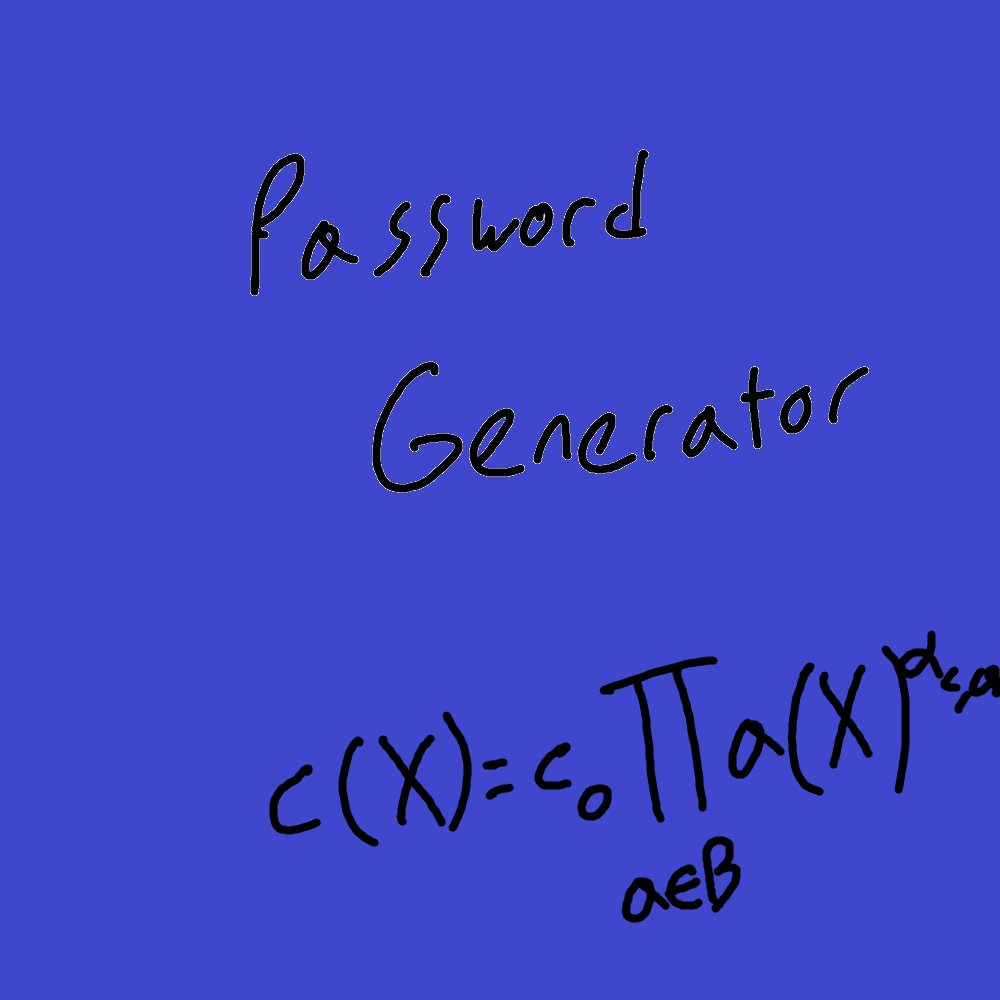
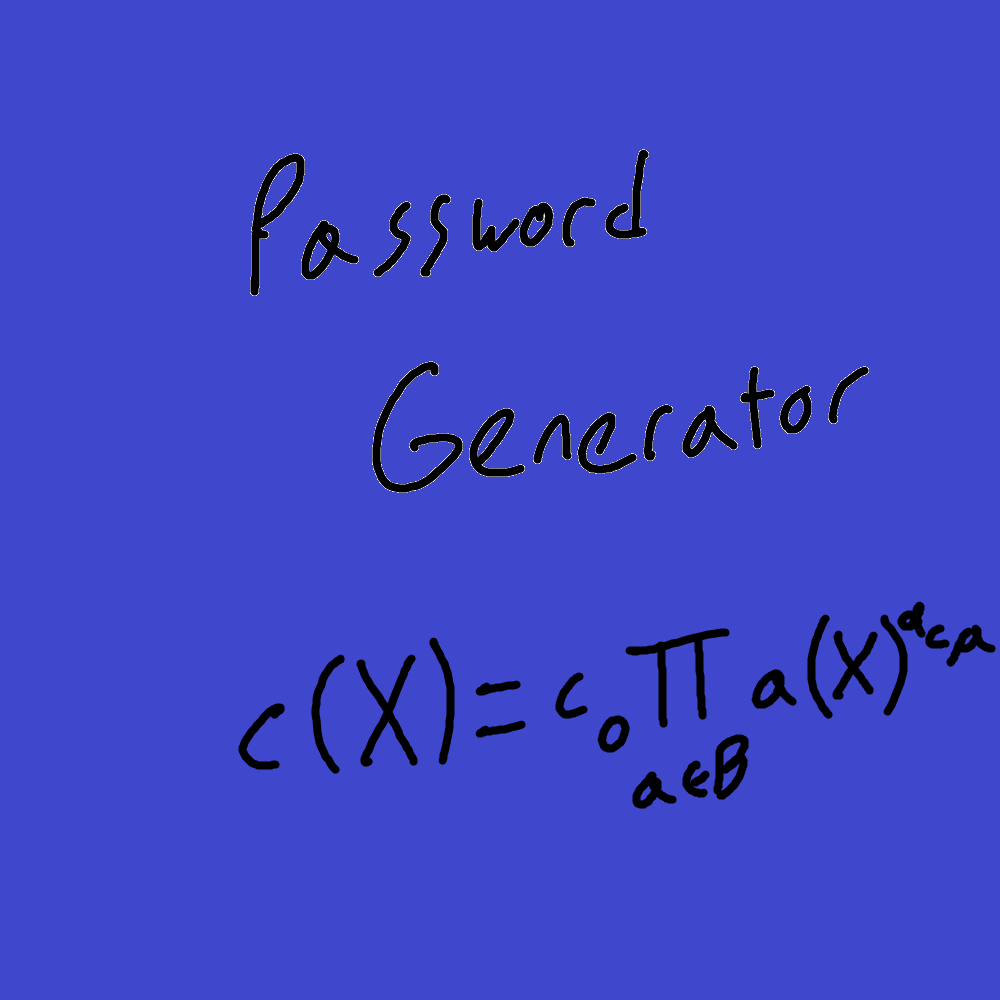
Added the coding-quiz picture and the link to the coding quiz deployment. Changed the password-gen-pic by moving the equation more towards the center using paint. Updated the webpage-screenshot pic to be current and display the new coding-quiz card.

Changed region(s): [[0.217, 0.589, 1.0, 0.837], [0.62, 0.837, 0.744, 0.93]]

diff --git a/index.html b/index.html
@@ -54,14 +54,20 @@
             <div class="subsection">
                 
                 <div class="project-2-img">
-                    <a href="https://google.com">
-                        <img src="./assets/images/calculator-pic.png" alt="calculator image"/>
-                    </a>
-                </div>
-                
-                <div class="project-2-img">
                     <a href="https://eigenvalue000.github.io/homework-03-password-generator/">
                         <img src="./assets/images/password-gen-pic.png" alt="password generator image"/>
+                    </a>
+                </div>
+
+                <div class="project-2-img">
+                    <a href="https://eigenvalue000.github.io/homework-04-code-quiz/">
+                        <img src="./assets/images/coding-quiz.png" alt="coding quiz image"/>
+                    </a>
+                </div>
+
+                <div class="project-2-img">
+                    <a href="https://google.com">
+                        <img src="./assets/images/calculator-pic.png" alt="calculator image"/>
                     </a>
                 </div>
 
@@ -73,9 +79,10 @@
 
                 <div class="project-2-img">
                     <a href="https://google.com">
-                        <img src="./assets/images/weather-dashboard-pic.png" alt="placeholder image"/>
+                        <img src="./assets/images/weather-dashboard-pic.png" alt="weather dashboard image"/>
                     </a>
                 </div>
+                
             </div>
             
         
